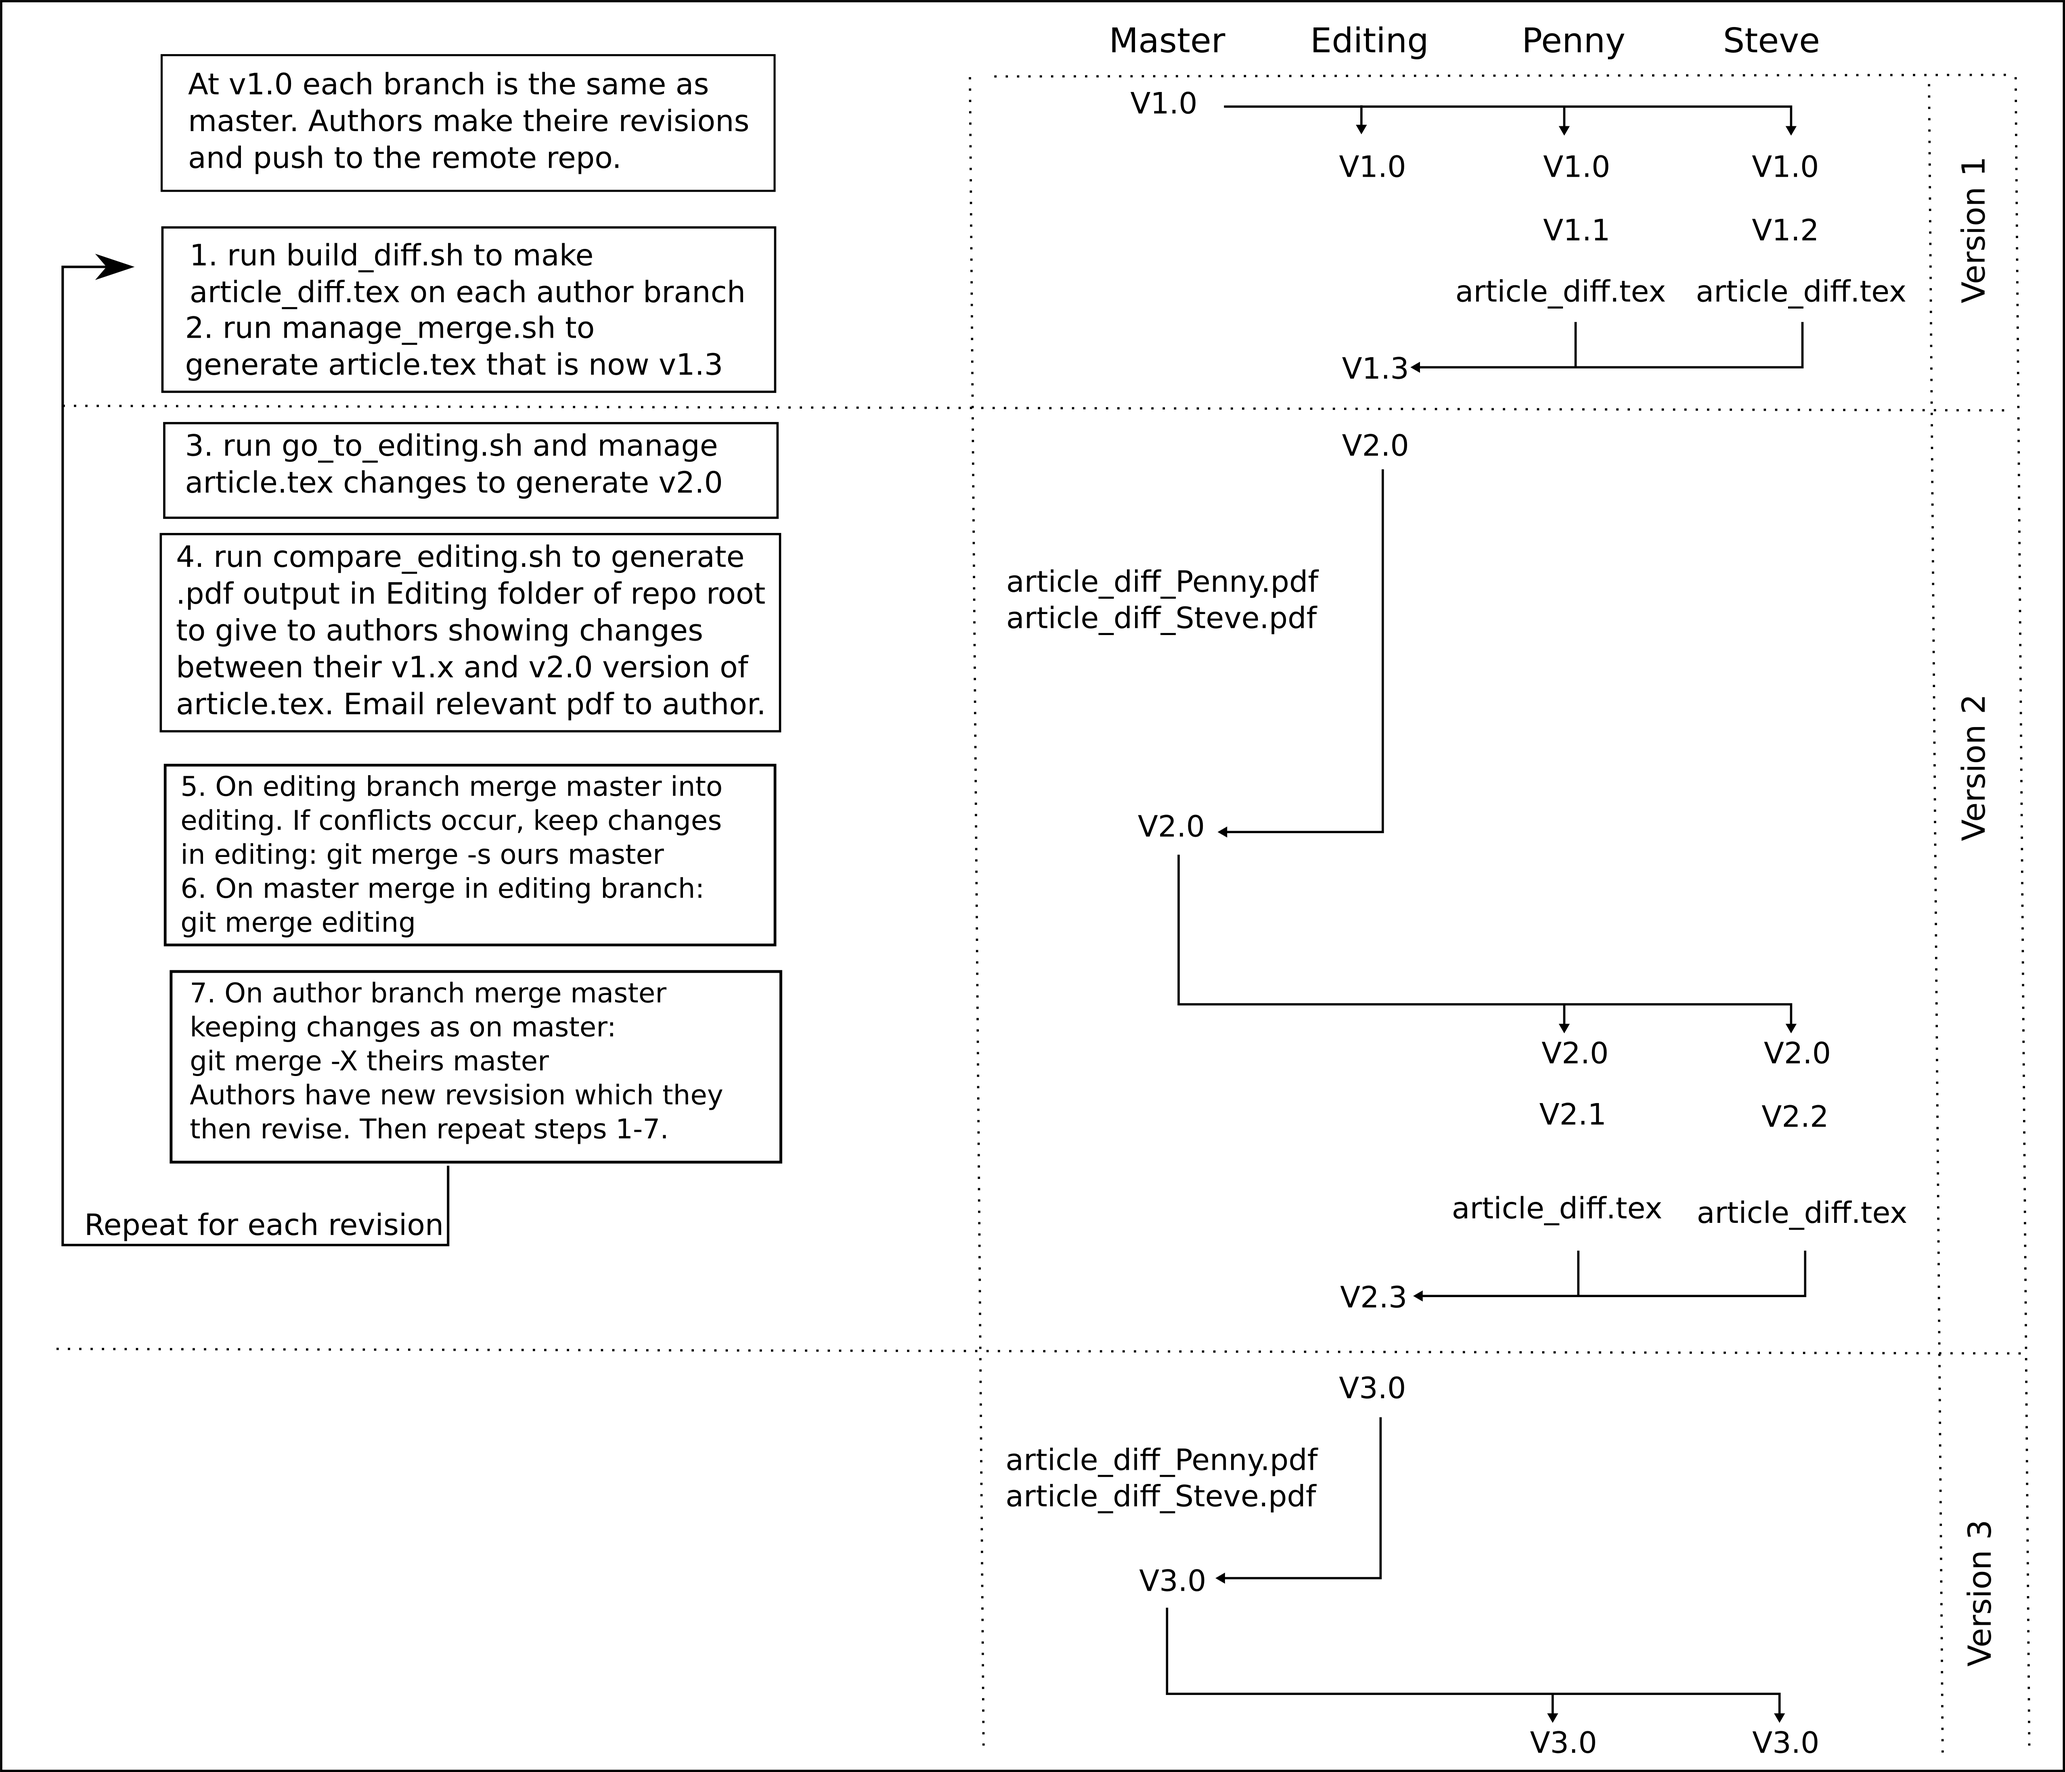
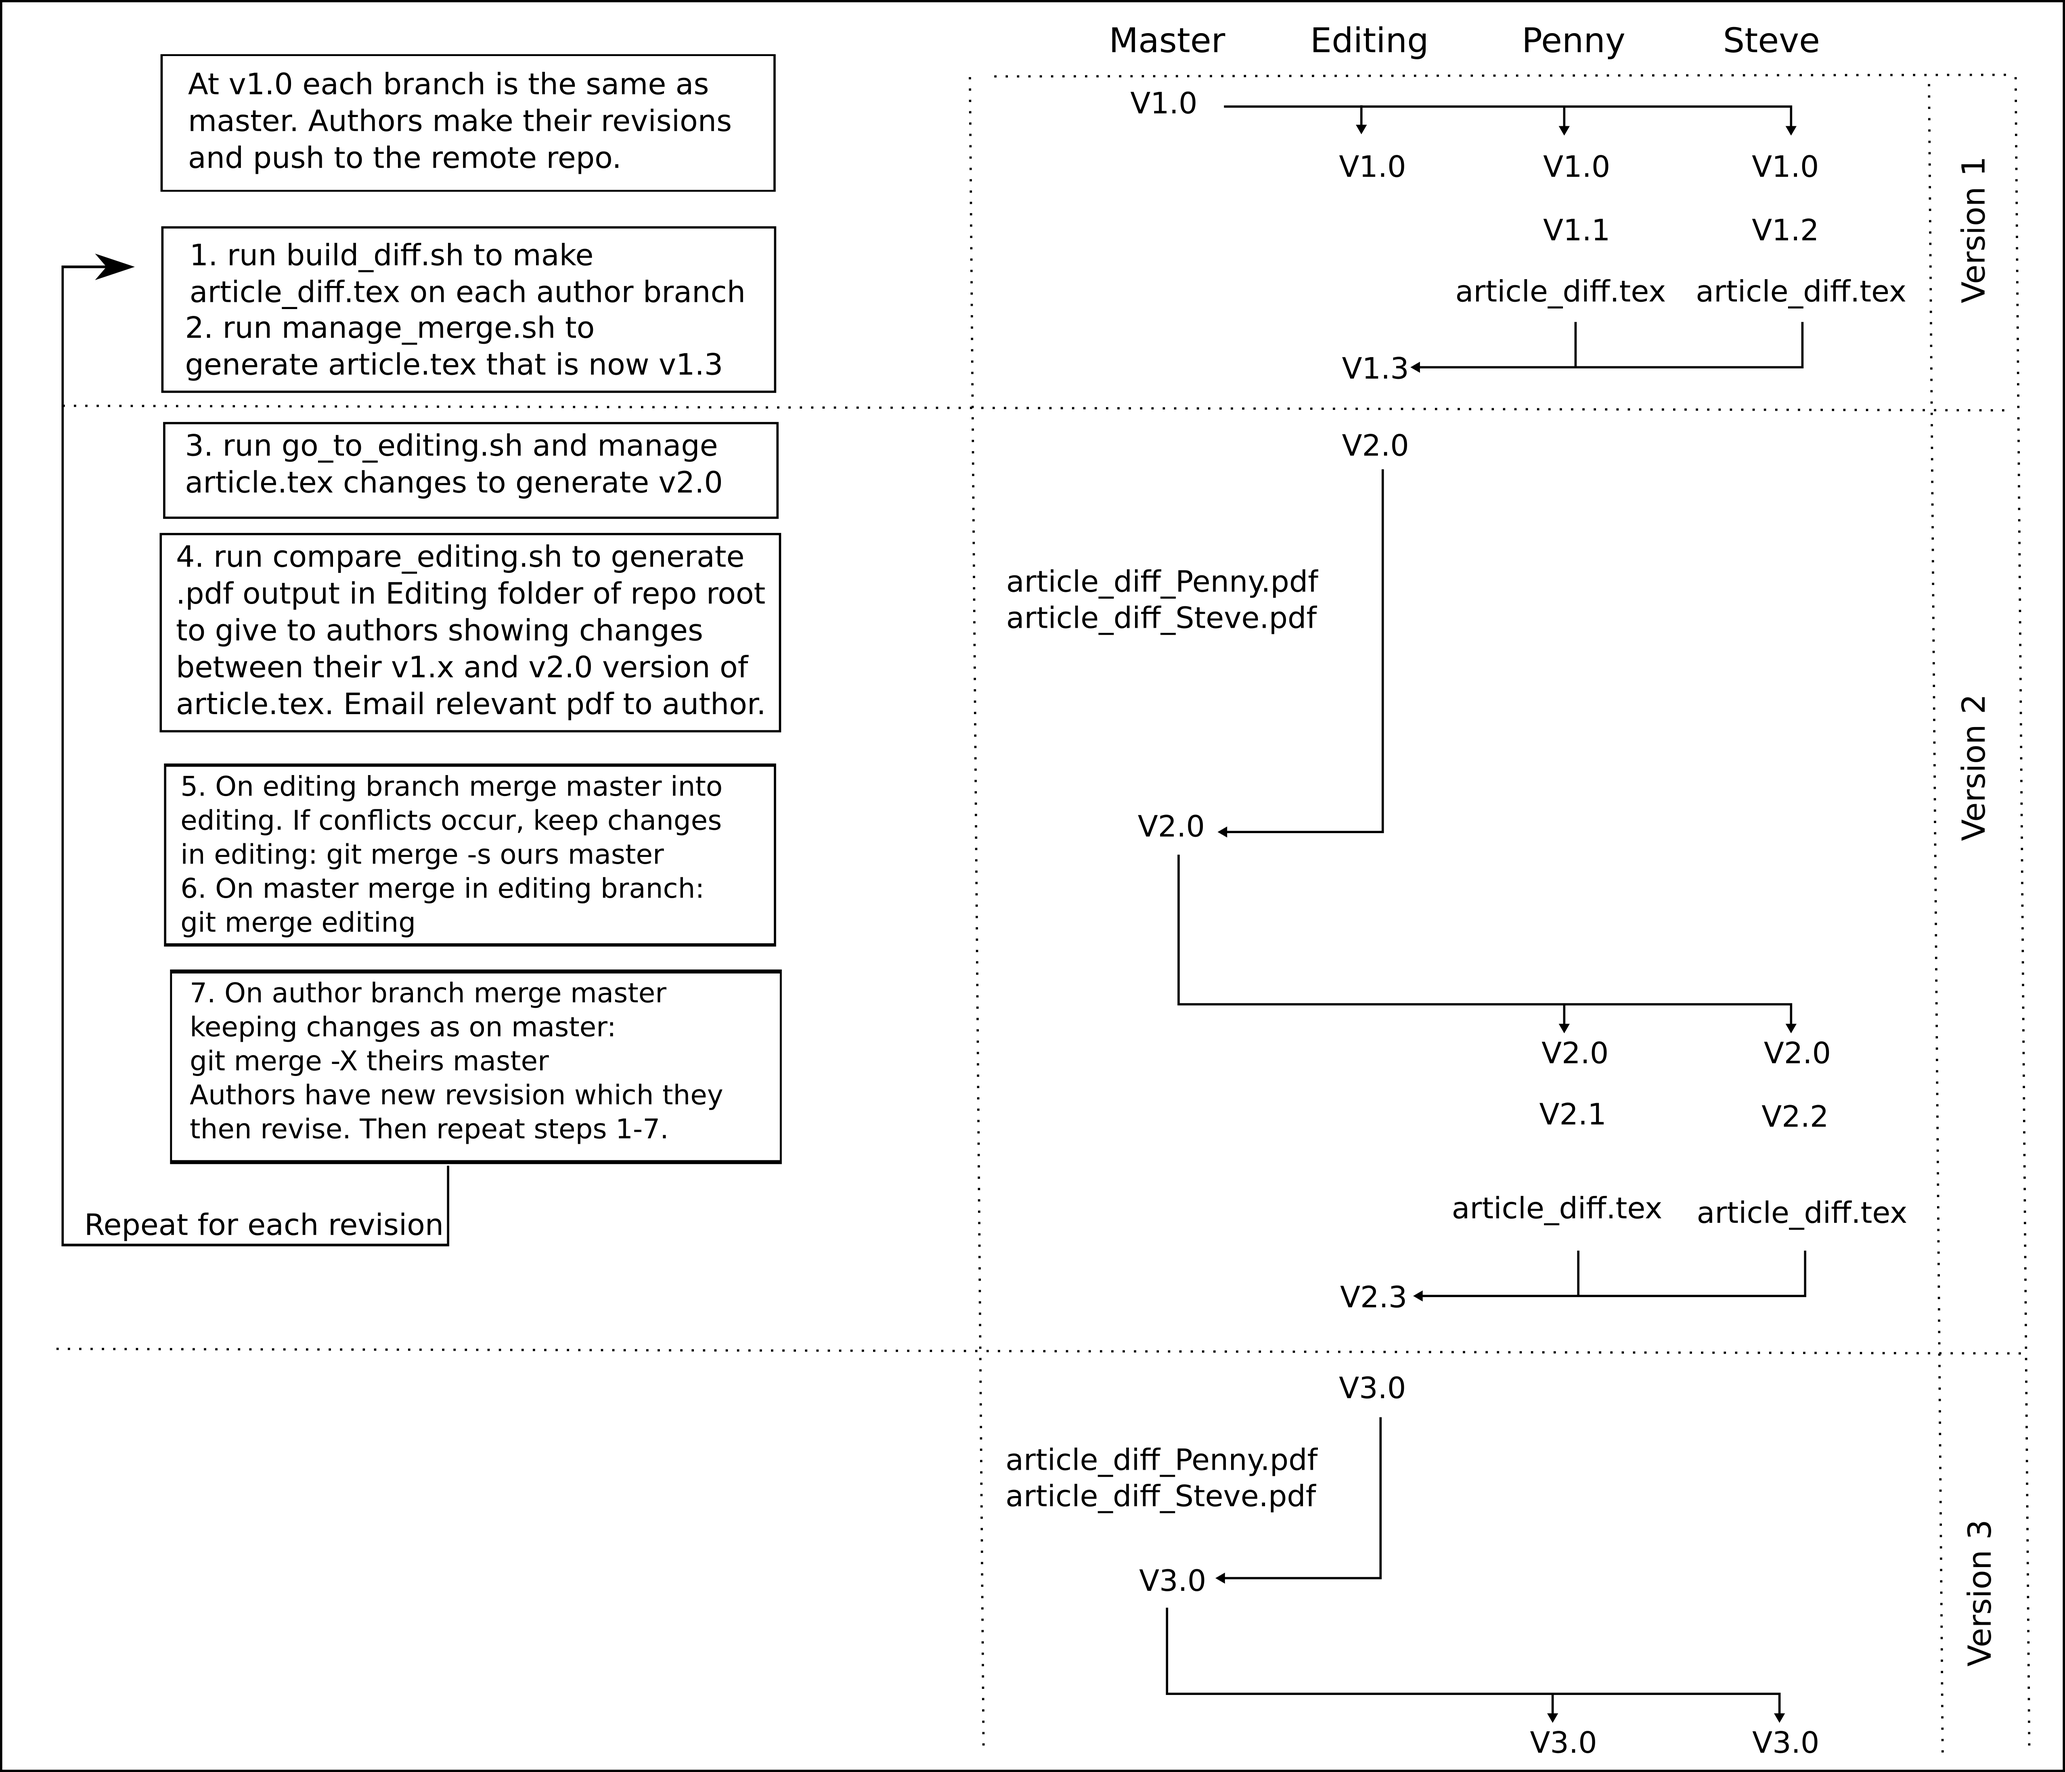
Adding to documentation and instructions

Changed region(s): [[0.2797, 0.0624, 0.3419, 0.0936]]

diff --git a/Instructions_for_use.md b/Instructions_for_use.md
@@ -1,0 +1,27 @@
+First please look at the workflow.png for a visual description of how to manage your project.
+
+This package assumes there is only one manager of the project who is competent at using git and latex. 
+
+This software makes use of the 
+
+The manager can then use this software to generate a track changed latex document:
+
+1. Generate a new file paper.tex with the preamble as in test_latex_git_track_changes/article.tex
+
+2. Initialise a git repository, then create one branch for each author and an extra one called 'editing'. Push changes to a remote repository.
+
+3. On each branch make desired changes to the paper.tex file. Ask all authors to push their changes and stop working on their files until they hear from you. When your ready to merge the files the run ./track_changes/build_diff.sh This will generate the file article_diff.tex on each branch.
+
+4. Then run ./track_changes/manage_merge.sh to merge paper.tex from each authors branch. This stage can be time consuming and can't be automated. It uses git patch, see https://git-scm.com/docs/git-checkout to merge the changes together in small chunks. There are basic instructions provided in the manage_merge.sh file which is a copy of the documentation and an example.
+
+5. Then run ./track_changes/go_to_editing.sh to checkout out the editing branch version of paper.tex and work on blending the version together, fixing spelling, formatting etc. 
+
+6. When your happy with the edits, run ./track_changes/compare_editing.sh to generate a pdf for each authors that shows the changes to the document since their last revision. These files are located within the Editing/ folder. I usually send these pdf's via email to my authors.
+
+7. At this stage the editing branch has the most up-to-date version, so the master and each of the authors branches need to be updates. On the editing branch, merge the master into editing BUT we want to keep the version of the files that are on editing branch. The merge strategy for this is git merge -s ours master
+
+8. Then checkout the master and merge in the editing branch (which will not have any conflicts as we already merged these on the editing branch). Then merge the master into the author branches. We want to keep the files from the master and 'clobber' the files on the author branches so run: git merge -X theirs master.
+
+9. At this stage all branches are up-to-date and this should be pushed to the remote repo. I would then email all authors and advise that their branch has been updated and they need to pull the changes. 
+
+10. Each author can continue to work on their file and then repeat steps 3-9.

diff --git a/FAQ.md b/FAQ.md
@@ -1,0 +1,4 @@
+FAQ:
+
+Q. What happens if an author continues to work on a file but I advanced the revision and their branch has conflicts?
+A. The short answer is that you will have conflicts between the revisions. This is annoying and will be time consuming to fix. The manager of the project has to fix it. Ask the author to make no further changes and push their changes. I have not tested this idea as yet but here s conceptually what I would do. If they can not push their changes because of merge conflicts then you need manage their branch for them. To do this revert their branch to the last commit the author made. Please make your you understand what you are doing before executing any of these codes as you may have undesirable effects. To move your branch back: git reset -hard HEAD~n where n is the number of commits behind the head you want to checkout.  When the head has moved back push the branch. Then ask the author to push their changes. Which should occur without conflict. Now you can either manually merge the new revision and their updated (but older revision) or you can run the software again to merge it for you. I recommend a manual merge using meld, see http://meldmerge.org/ 

diff --git a/setting_up.md b/setting_up.md
@@ -1,0 +1,20 @@
+Install instructructions:
+
+0. This softare relies on latexdiff which can be downloaded from http://www.ctan.org/tex-archive/support/latexdiff
+
+1. Fork the git repo to your local machine. latex_git_track_changes
+
+2. Fork the testing environment repo to your local machine. test_latex_git_track_changes.
+
+3. Within the test_latex_git_track_changes root directory create a symbolic link called 'track_changes' in the repo root directory latex_git_track_changes. eg: 
+ ln -s $path_to_repo/latex_git_track_changes/ track_changes
+
+4. The next step is setting up the user_config.sh file which is loacted in test_latex_git_track_changes. Open the user_config.sh file for seperate set up documentation.
+
+5. From within test_latex_git_track_changes run the script track_changes/set_author_info_color.sh This will auto generate three files:
+  a) author_colors.tex
+  b) color_change.tex
+  c) author_info.tex
+  These files are need to get up define each authors colours, set up to do note propoerties, etc.
+
+6. 
